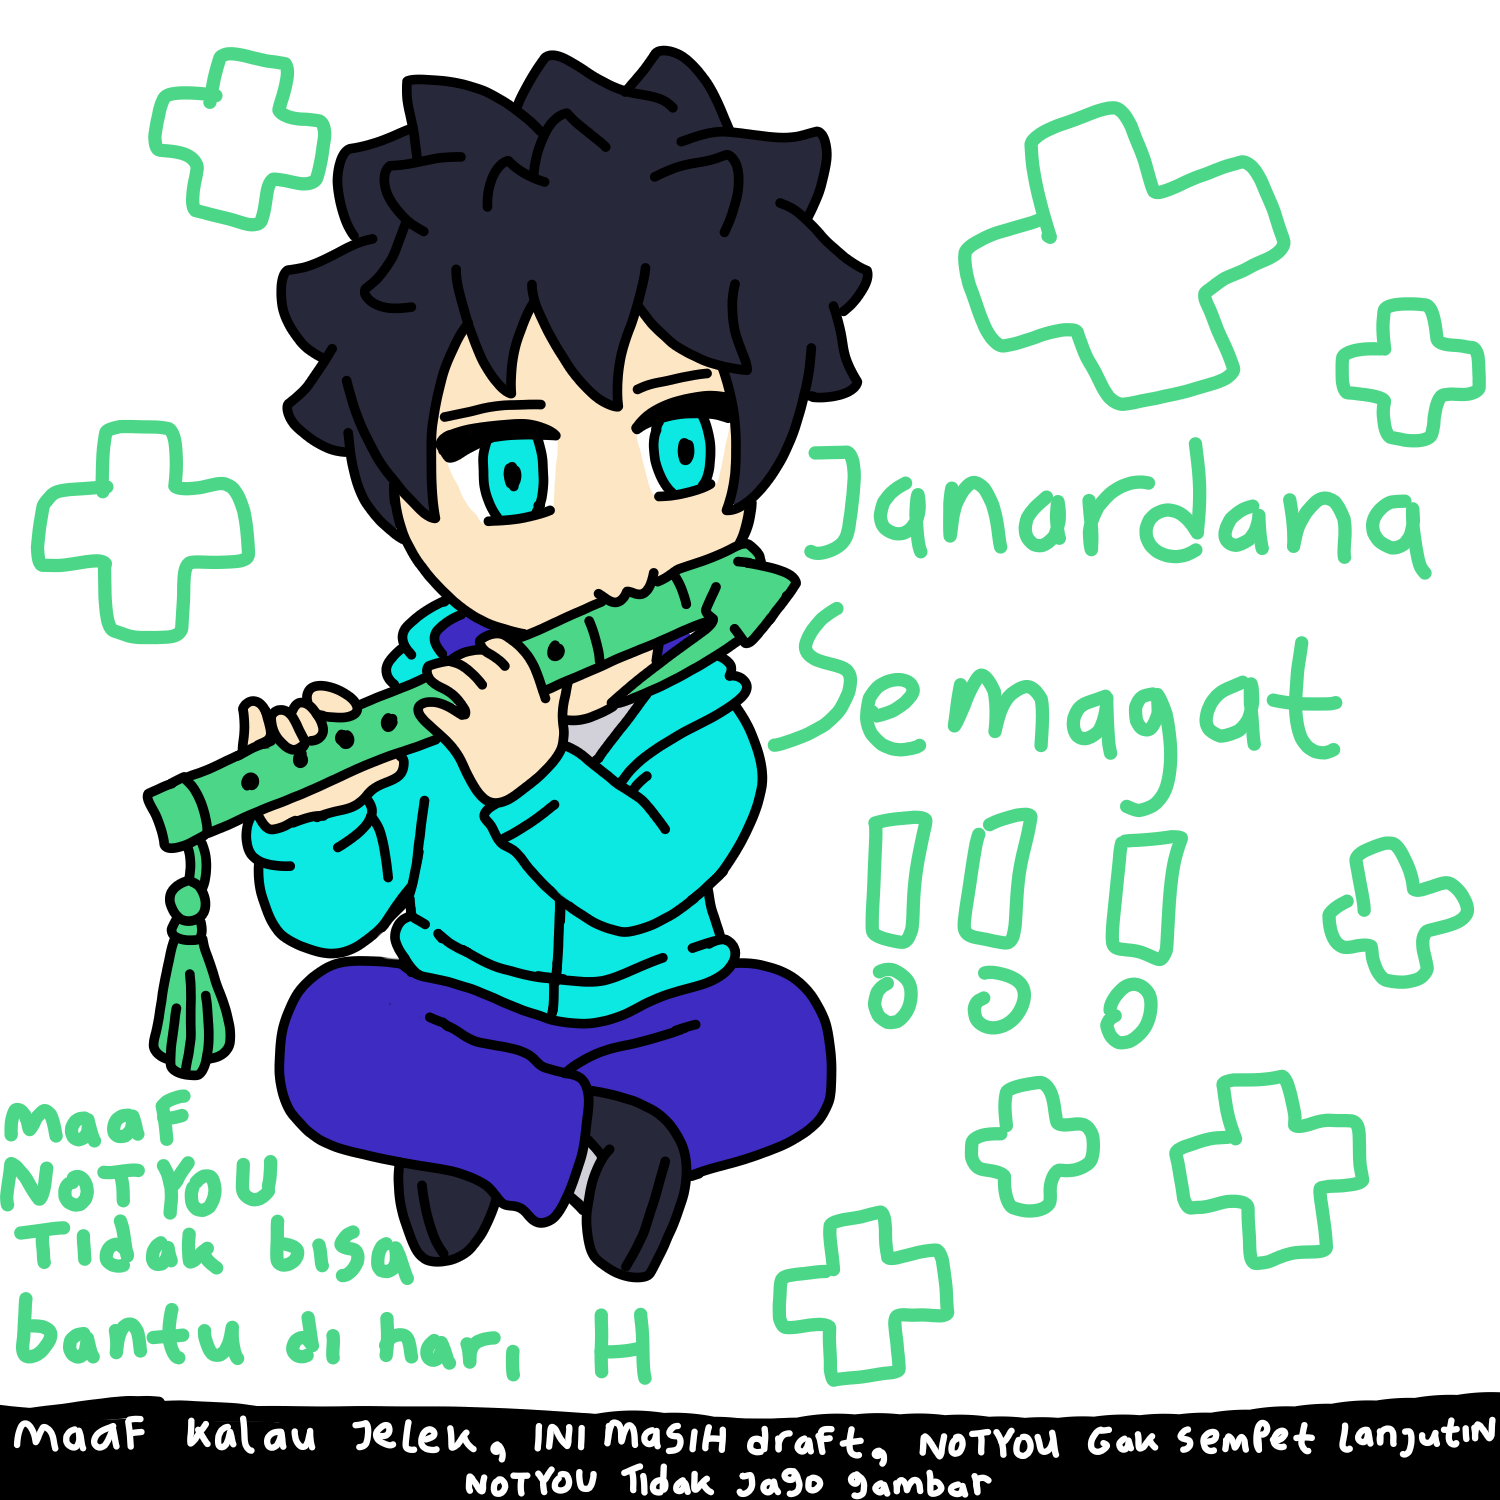
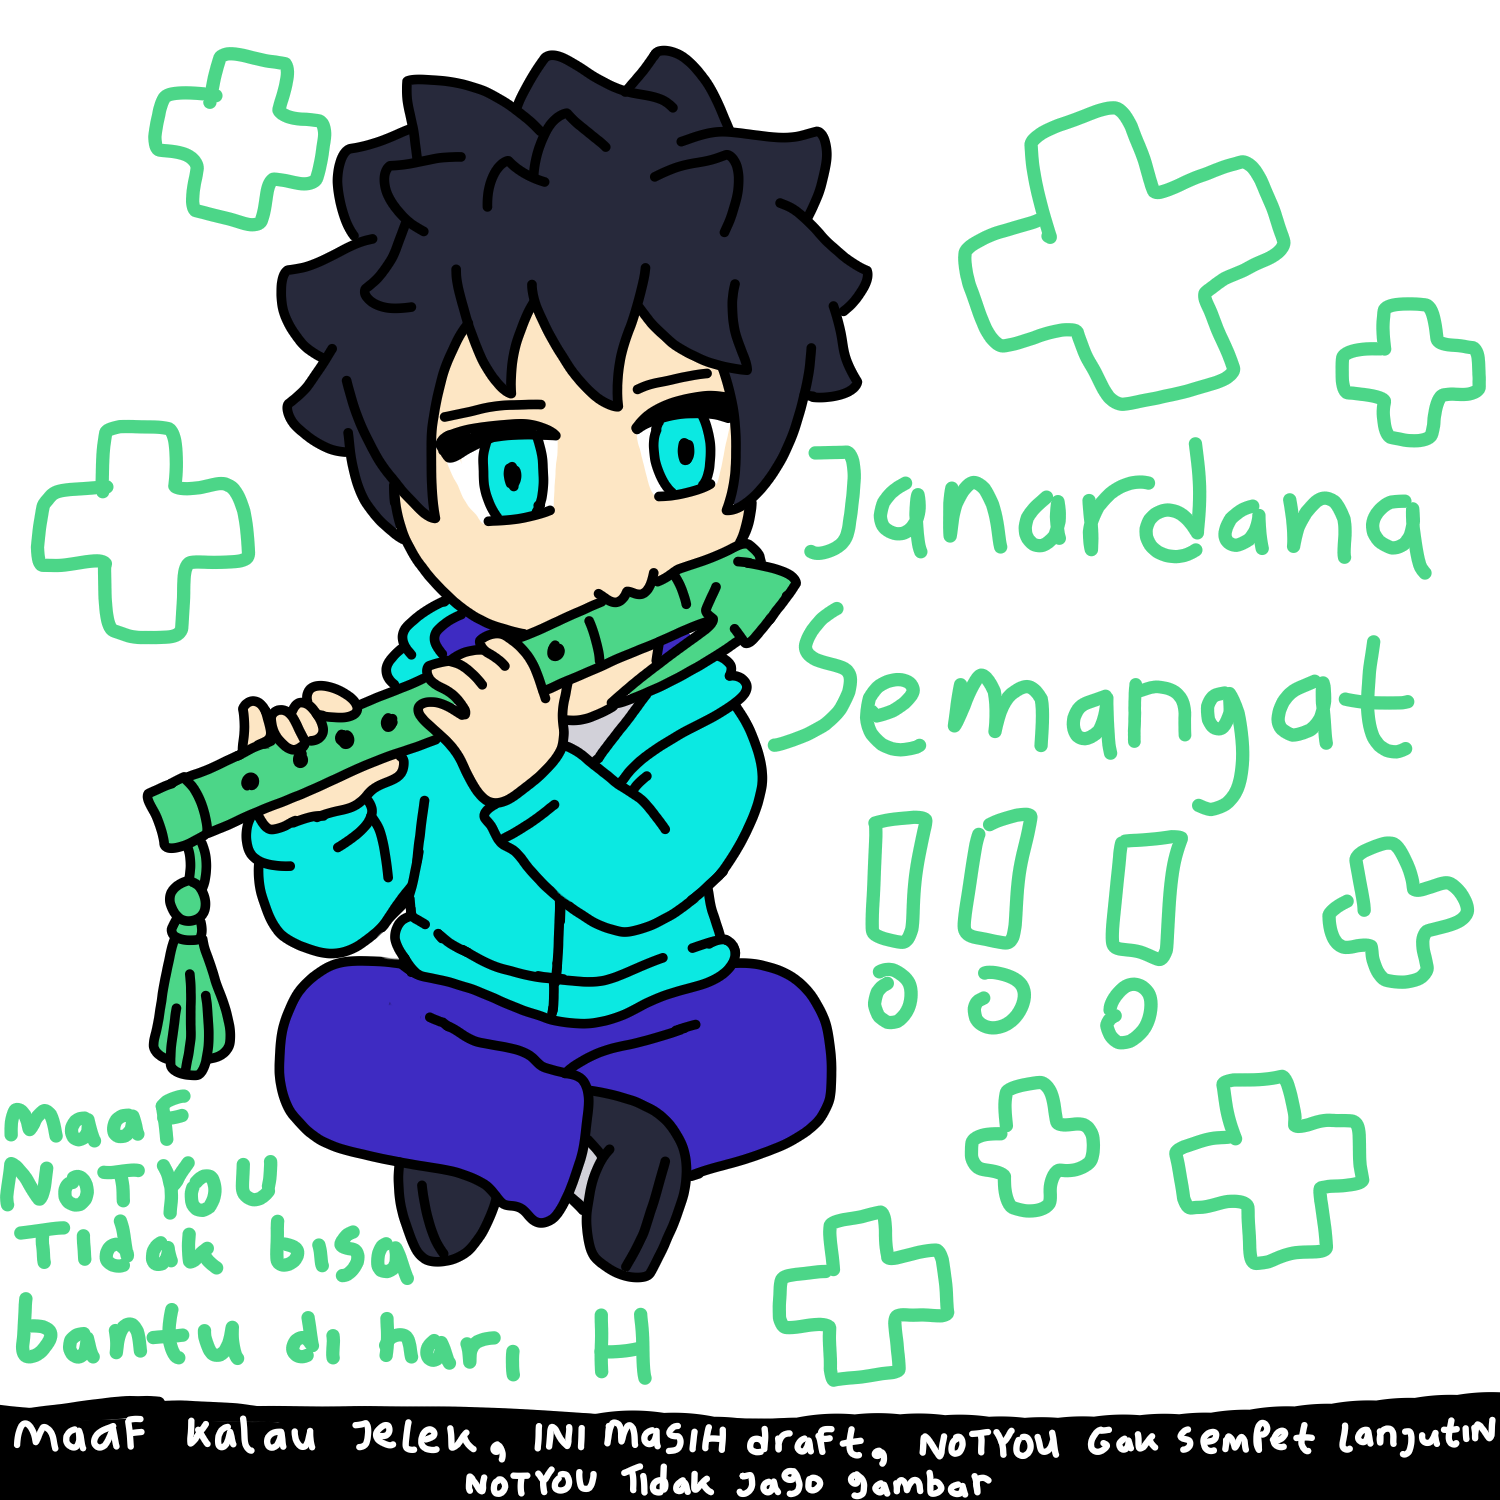
hope it a final

Changed region(s): [[0.736, 0.4293, 0.9507, 0.552]]

diff --git a/web/js/reward.js b/web/js/reward.js
@@ -200,6 +200,10 @@ function generateRewardHTML(panitia) {
     .actions {
       margin-top: 2.5rem;
       text-align: center;
+      display: flex;
+      gap: 0.85rem;
+      justify-content: center;
+      flex-wrap: wrap;
     }
     .actions button {
       padding: 0.9rem 2.25rem;
@@ -218,6 +222,79 @@ function generateRewardHTML(panitia) {
     .actions button:hover {
       background-color: #F7CE1C;
       color: #0d0a0b;
+    }
+    .actions button.secondary {
+      border-color: rgba(255, 255, 255, 0.25);
+      background-color: rgba(255, 255, 255, 0.05);
+      color: #f5f5f5;
+    }
+    .actions button.secondary:hover {
+      background-color: rgba(255, 255, 255, 0.9);
+      color: #0d0a0b;
+    }
+    @page {
+      size: A4 landscape;
+      margin: 10mm;
+    }
+    @media print {
+      * {
+        -webkit-print-color-adjust: exact;
+        print-color-adjust: exact;
+        animation: none !important;
+      }
+      html, body {
+        width: 100%;
+        height: auto;
+        min-height: 0;
+      }
+      body {
+        display: block;
+        padding: 0;
+        background-image: none;
+      }
+      .certificate {
+        width: 100%;
+        max-width: 100%;
+        margin: 0;
+        box-shadow: none;
+        border-radius: 0;
+        page-break-inside: avoid;
+      }
+      .content {
+        padding: 1.5rem 2rem;
+      }
+      .headline {
+        font-size: 2.1rem;
+        letter-spacing: 6px;
+      }
+      .headline-sub {
+        font-size: 0.7rem;
+      }
+      .presented-to {
+        margin-top: 1.5rem;
+        font-size: 0.68rem;
+      }
+      .name {
+        font-size: 2.5rem;
+      }
+      .name-subtitle {
+        font-size: 0.68rem;
+      }
+      .description {
+        margin-top: 0.85rem;
+        font-size: 0.75rem;
+        line-height: 1.55;
+      }
+      .footer-row {
+        margin-top: 1.5rem;
+      }
+      .stamp {
+        width: 90px;
+        height: 90px;
+      }
+      .actions {
+        display: none;
+      }
     }
     @keyframes fadeIn {
       from { opacity: 0; transform: translateY(16px); }
@@ -270,6 +347,7 @@ function generateRewardHTML(panitia) {
       </div>
 
       <div class="actions">
+        <button onclick="window.print()" class="secondary">Cetak / Simpan sebagai PDF</button>
         <button onclick="window.location.href='https://omb.umn.ac.id'">Saya Bersemangat</button>
       </div>
     </div>
@@ -287,13 +365,8 @@ export function claimReward() {
   const html = generateRewardHTML(panitia);
   const blob = new Blob([html], { type: 'text/html' });
   const url = URL.createObjectURL(blob);
-  const link = document.createElement('a');
-  link.href = url;
-  link.download = 'reward.html';
-  document.body.appendChild(link);
-  link.click();
-  document.body.removeChild(link);
-  URL.revokeObjectURL(url);
+
+  window.open(url, '_blank');
 
   localStorage.removeItem(STORAGE_PROGRESS_KEY);
   localStorage.removeItem(STORAGE_LAST_KODE_KEY);
